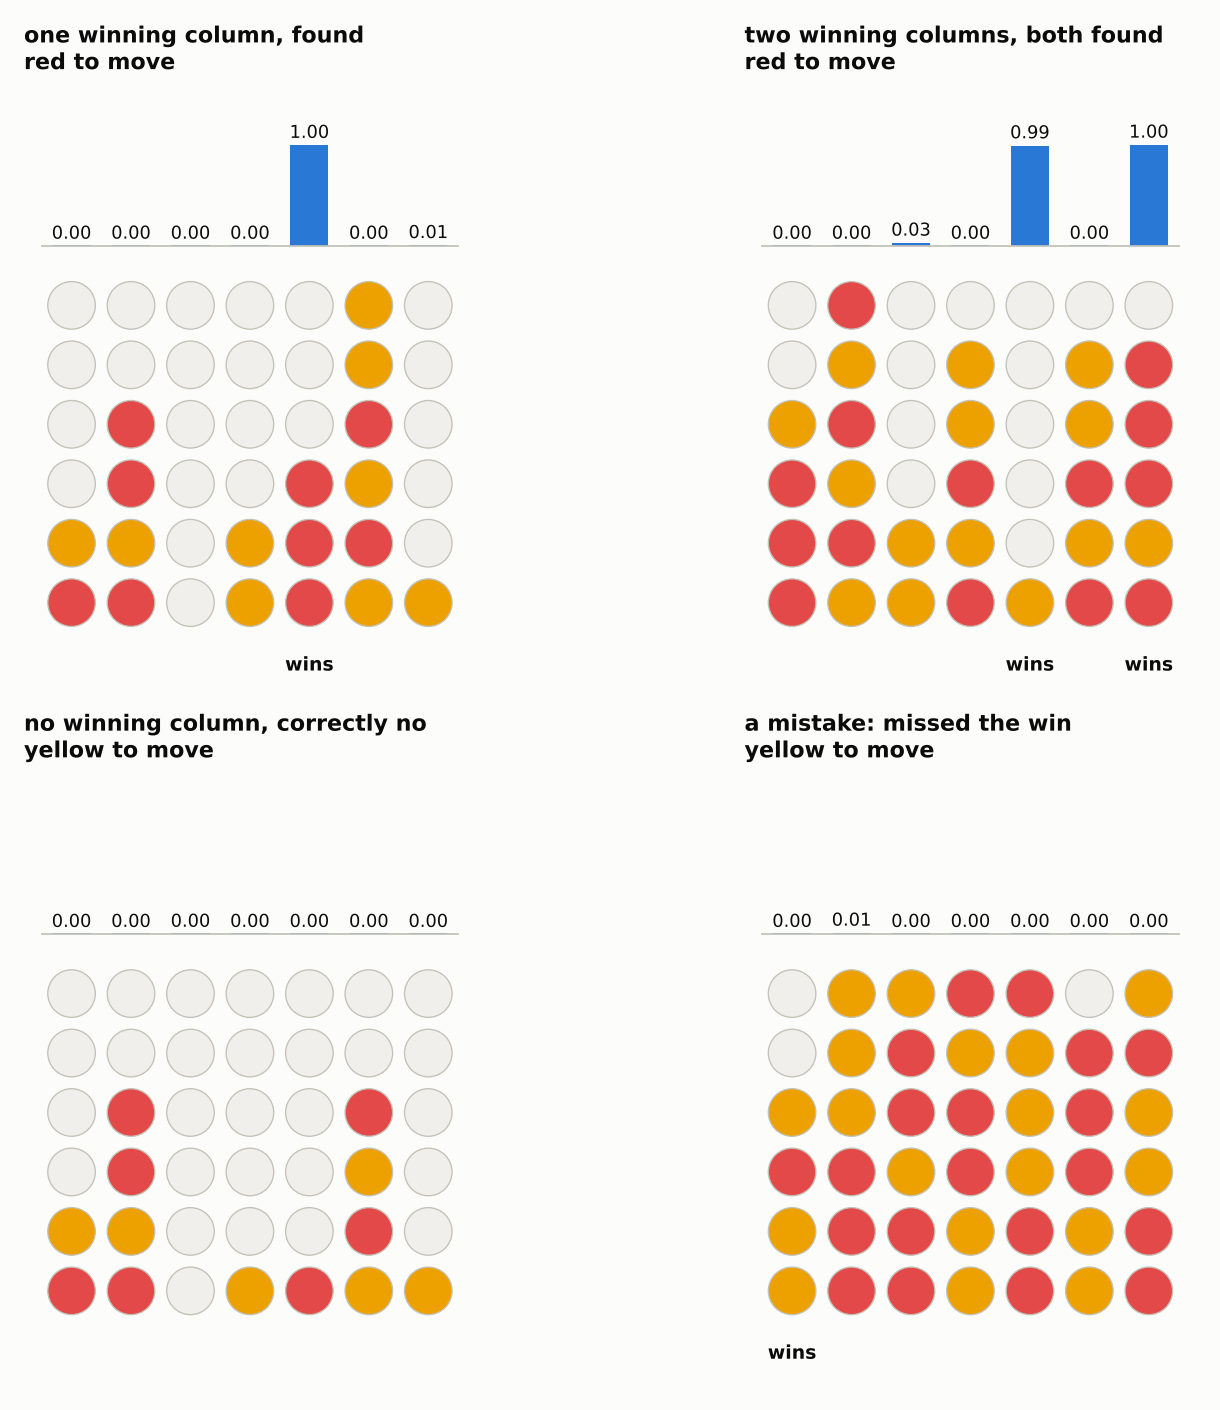
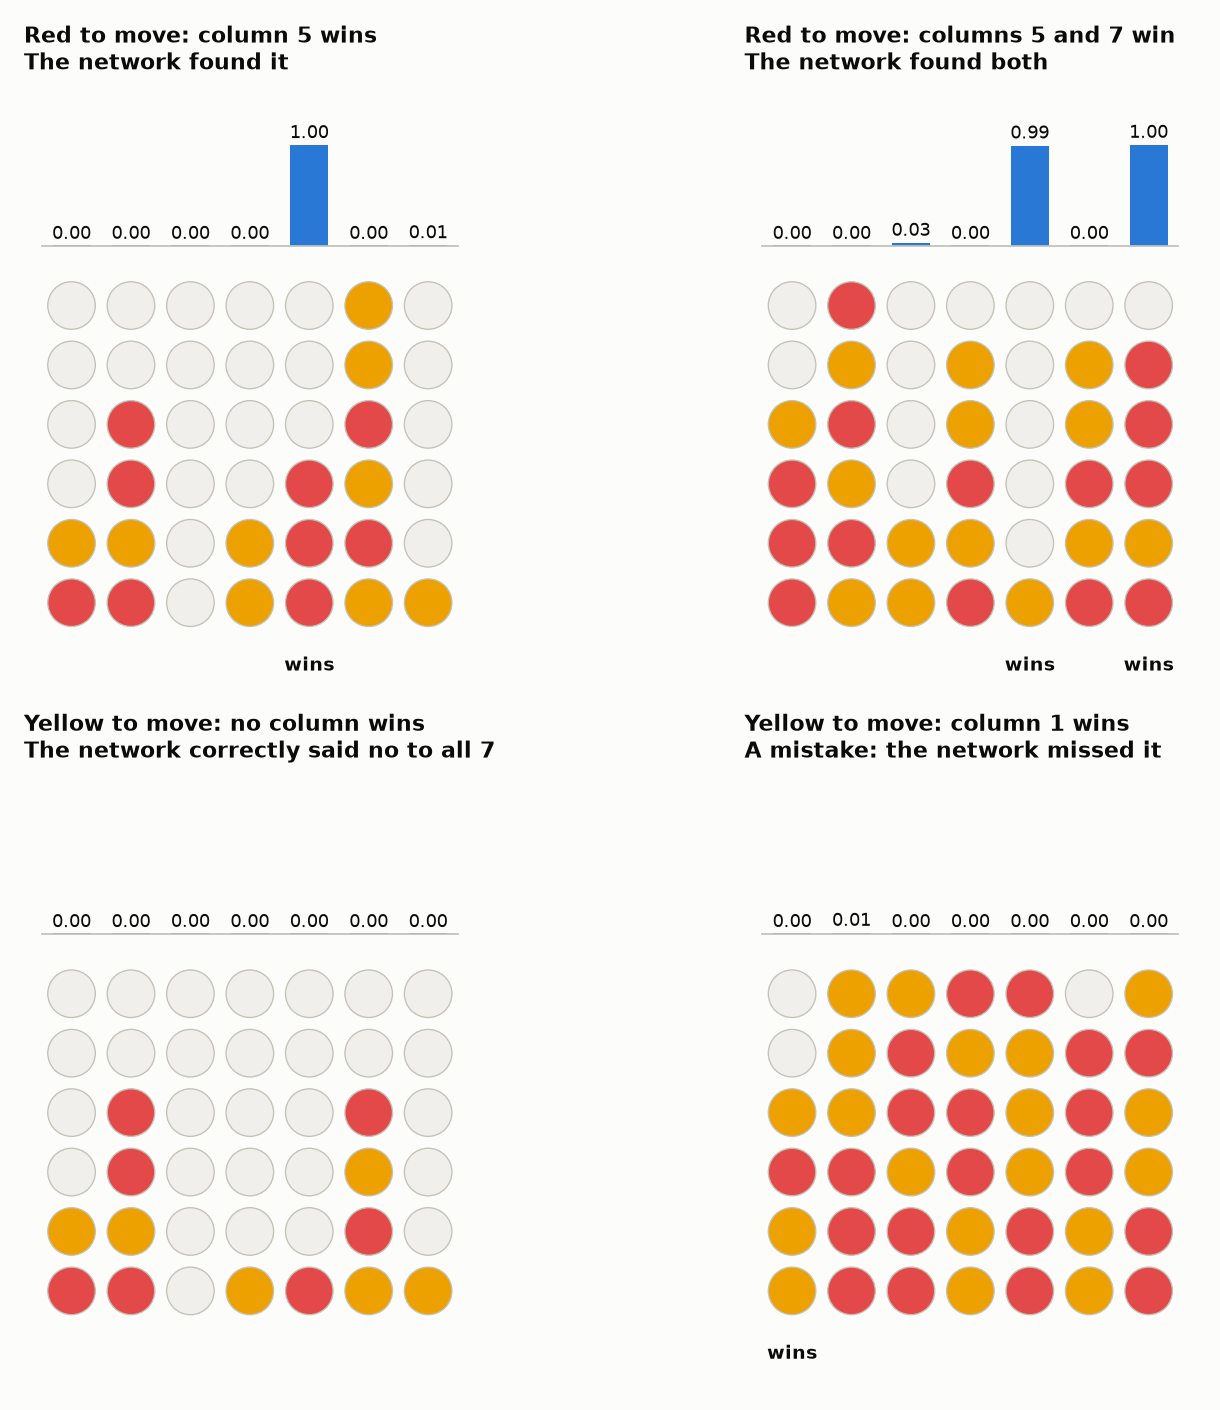
Step 4b: clearer example titles and a two-questions chart
- Example titles now read as sentences: whose turn it is and which
  columns really win, then what the network did ("Yellow to move:
  column 1 wins / A mistake: the network missed it").
- Section 10 gets a new chart: one board asked both questions ("where
  can I win?" and, with the halves swapped, "where could my opponent
  win?"), next to how well each question is answered on the test
  positions (92.9% vs 93.2%, false alarms 0.9% vs 1.1%).
- Section 10 now says plainly that both questions are about the current
  board: no piece is dropped in to find out.

diff --git a/scripts/make_stage2_step4_charts.py b/scripts/make_stage2_step4_charts.py
@@ -37,6 +37,7 @@ from connect4.numpy_nn import winning_moves as wm  # noqa: E402
 from connect4.players import HeuristicPlayer, RandomPlayer  # noqa: E402
 
 EXAMPLE_MOVES = [3, 3, 2, 2, 1, 4]  # red to move; column 1 wins
+TWO_QUESTIONS_MOVES = [0, 6, 1, 6, 2, 6]  # red to move; red wins in column 4, yellow in 7
 PIECE = {1: RED_PIECE, 2: YELLOW_PIECE}
 NAME = {1: "red", 2: "yellow"}
 
@@ -130,14 +131,24 @@ def pick_examples(net, data):
     top = guesses.argmax(axis=1)
     top_right = right[np.arange(len(right)), top] == 1
     rules = [
-        ("one winning column, found", (wins == 1) & top_right & (guesses.max(1) > 0.9)),
-        ("two winning columns, both found",
-         (wins == 2) & ((guesses > 0.5) == (right == 1)).all(1)),
-        ("no winning column, correctly no", (wins == 0) & (guesses.max(1) < 0.1)
+        ("The network found it", (wins == 1) & top_right & (guesses.max(1) > 0.9)),
+        ("The network found both", (wins == 2) & ((guesses > 0.5) == (right == 1)).all(1)),
+        ("The network correctly said no to all 7", (wins == 0) & (guesses.max(1) < 0.1)
          & (np.array([len(b.moves) for b in data.test_boards]) > 12)),
-        ("a mistake: missed the win", (wins == 1) & ~top_right & (guesses.max(1) < 0.5)),
+        ("A mistake: the network missed it",
+         (wins == 1) & ~top_right & (guesses.max(1) < 0.5)),
     ]  # fmt: skip
     return [(title, int(np.flatnonzero(mask)[0])) for title, mask in rules], guesses
+
+
+def what_wins(answers: np.ndarray) -> str:
+    """'no column wins', 'column 5 wins' or 'columns 5 and 7 win'."""
+    cols = [str(c + 1) for c in np.flatnonzero(answers)]
+    if not cols:
+        return "no column wins"
+    if len(cols) == 1:
+        return f"column {cols[0]} wins"
+    return f"columns {', '.join(cols[:-1])} and {cols[-1]} win"
 
 
 def chart_examples(net, data) -> None:
@@ -159,9 +170,61 @@ def chart_examples(net, data) -> None:
             if right[col] == 1:
                 ax.text(col, -0.9, "wins", ha="center", va="top", fontsize=8.5, weight="bold")
         ax.plot([-0.5, 6.5], [6.0, 6.0], color=AXIS, linewidth=0.8)
-        ax.set_title(f"{title}\n{NAME[board.current_player]} to move", fontsize=10)
+        mover = NAME[board.current_player].capitalize()
+        ax.set_title(f"{mover} to move: {what_wins(right)}\n{title}", fontsize=10)
     save(fig, "04-examples.png")
     return examples
+
+
+def chart_two_questions(net, mine: wm.Scores, theirs: wm.Scores) -> None:
+    """One board asked both questions, and how well each is answered on the test cards."""
+    board = Board.from_moves(TWO_QUESTIONS_MOVES)
+    x = wm.encode(board)
+    guesses = nw.predict(net, np.array([x, wm.swap_sides(x)]))
+    fig, (left, right) = plt.subplots(
+        1, 2, figsize=(9.4, 5.4), constrained_layout=True, width_ratios=[1.45, 1]
+    )  # fmt: skip
+
+    left.set_xlim(-0.8, 6.8)
+    left.set_ylim(-1.6, 11.4)
+    left.set_aspect("equal")
+    left.axis("off")
+    draw_board(left, board, 0, 0)
+    strips = [
+        (8.9, "Where can I (red) win?", SERIES[0], guesses[0]),
+        (6.1, "Where could my opponent (yellow) win?", SERIES[1], guesses[1]),
+    ]
+    for base_y, label, color, g in strips:
+        left.add_patch(plt.Rectangle((-0.5, base_y + 1.95), 0.3, 0.3, facecolor=color,
+                                     edgecolor="none"))  # fmt: skip
+        left.text(-0.05, base_y + 2.1, label, va="center", fontsize=9, color=INK)
+        for col in range(COLS):
+            height = 1.4 * g[col]
+            left.add_patch(plt.Rectangle((col - 0.32, base_y), 0.64, max(height, 0.02),
+                                         facecolor=color, edgecolor="none"))  # fmt: skip
+            left.text(col, base_y + 0.05 + height, f"{g[col]:.2f}", ha="center", va="bottom",
+                      fontsize=8, color=INK)  # fmt: skip
+        left.plot([-0.5, 6.5], [base_y, base_y], color=AXIS, linewidth=0.8)
+    for player in (board.current_player, 3 - board.current_player):
+        for col in board.winning_moves(player):
+            left.text(col, -0.9, f"{NAME[player]} wins", ha="center", va="top", fontsize=8.5,
+                      weight="bold")  # fmt: skip
+    left.set_title("One board, both questions (red to move)")
+
+    questions = [("Question 1\nwhere can I win?", mine),
+                 ("Question 2\nwhere could my\nopponent win?", theirs)]  # fmt: skip
+    values = [100 * s.found for _, s in questions]
+    right.bar([0, 1], values, width=0.55, color=SERIES[:2])
+    for xpos, value in enumerate(values):
+        right.text(xpos, value + 1.5, f"{value:.1f}%", ha="center", fontsize=9, color=INK)
+    right.set_xticks([0, 1], [f"{name}\n(false alarms {s.false_alarms:.1%})"
+                              for name, s in questions])  # fmt: skip
+    right.set_xlim(-0.7, 1.7)
+    right.set_ylim(0, 108)
+    right.set_ylabel("% of positions that have a win")
+    right.set_title("Test positions: finds the winning column")
+    right.grid(axis="x")
+    save(fig, "04-two-questions.png")
 
 
 def chart_hidden_neurons(net) -> list[tuple[int, int, float]]:
@@ -297,7 +360,9 @@ def main() -> None:
 
     their_view = wm.swap_sides(data.test_inputs)
     their_answers = np.array([wm.answers(b, 3 - b.current_player) for b in data.test_boards])
-    say(f"opponent's view, never practised: {wm.score(nw.predict(net, their_view), their_answers)}")
+    theirs = wm.score(nw.predict(net, their_view), their_answers)
+    say(f"opponent's view, never practised: {theirs}")
+    chart_two_questions(net, history[-1].test, theirs)
 
     neural = wm.NeuralPlayer(net, seed=1)
     say("\nGames (1,000 each):")

diff --git a/docs/stage-2/04b-training-on-connect-4.md b/docs/stage-2/04b-training-on-connect-4.md
@@ -72,7 +72,7 @@ The test numbers are nearly as good as the practice numbers. Every test position
 
 ![Four test positions with the network's 7 guesses drawn as bars above the columns. One winning column, found with 1.00. Two winning columns, both found with 0.99 and 1.00. No winning column, all guesses 0.00. A mistake: yellow can win in column 1 with a diagonal, but every guess is near 0](images/04-examples.png)
 
-**How to read this picture.** Each board is a test position. The bars above it are the network's 7 guesses, one per column, from 0 (no bar) to 1 (full bar). "wins" under a column marks a column that really wins.
+**How to read this picture.** Each board is a test position. The bars above it are the network's 7 guesses, one per column, from 0 (no bar) to 1 (full bar). "wins" under a column marks a column that really wins. Each title says whose turn it is and which columns really win, then what the network made of it.
 
 - **Top left:** red wins in column 5 by stacking a fourth piece. The network says 1.00 there and about 0 everywhere else.
 - **Top right:** two winning columns (5 and 7), both found.
@@ -160,6 +160,16 @@ x = encode(board)
 mine = predict(net, x)  # where can I win?
 theirs = predict(net, swap_sides(x))  # where could my opponent win?
 ```
+
+So before every move, the player asks the network **two questions about the same board**: once as it is, and once with the halves swapped. No piece is dropped into any column to find out. The network looks at the current board and answers for all 7 columns at once.
+
+![Left: one board with red to move. Red has three in a row along the bottom and can win in column 4; yellow has three stacked in column 7 and could win there. Above the board are two rows of bars. Question 1, "where can I (red) win?", says 0.95 for column 4 and 0.00 everywhere else. Question 2, "where could my opponent (yellow) win?", says 0.99 for column 7 and 0.00 everywhere else. Right: a bar chart over the test positions. Question 1 finds the winning column 92.9% of the time, with 0.9% false alarms. Question 2 finds it 93.2% of the time, with 1.1% false alarms](images/04-two-questions.png)
+
+**How to read this picture.**
+- **Left: one board, both questions.** Red is to move. The blue bars answer question 1, "where can I win?": 0.95 for column 4, where red would complete four along the bottom. The orange bars answer question 2, on the same board with the halves swapped: 0.99 for column 7, where yellow would complete a stack of four. Under the board, "red wins" and "yellow wins" mark the right answers.
+- **Right: how well each question is answered** across all 30,000 test positions. Each bar is "finds the win": of the positions where that player has a winning move, how often the network's top column is a real win. The false alarms are under each bar: how often it claims a win that isn't there.
+
+On this board both questions find a win. The network doesn't decide which matters more. The player's rules do, and winning comes first (section 11).
 
 The network never practised on swapped boards, and some of them can't even happen in a real game: the "player to move" has one more piece than the opponent. On the test positions it still finds the opponent's winning column **93.2%** of the time, with 1.1% false alarms. About as good as for its own moves.
 
